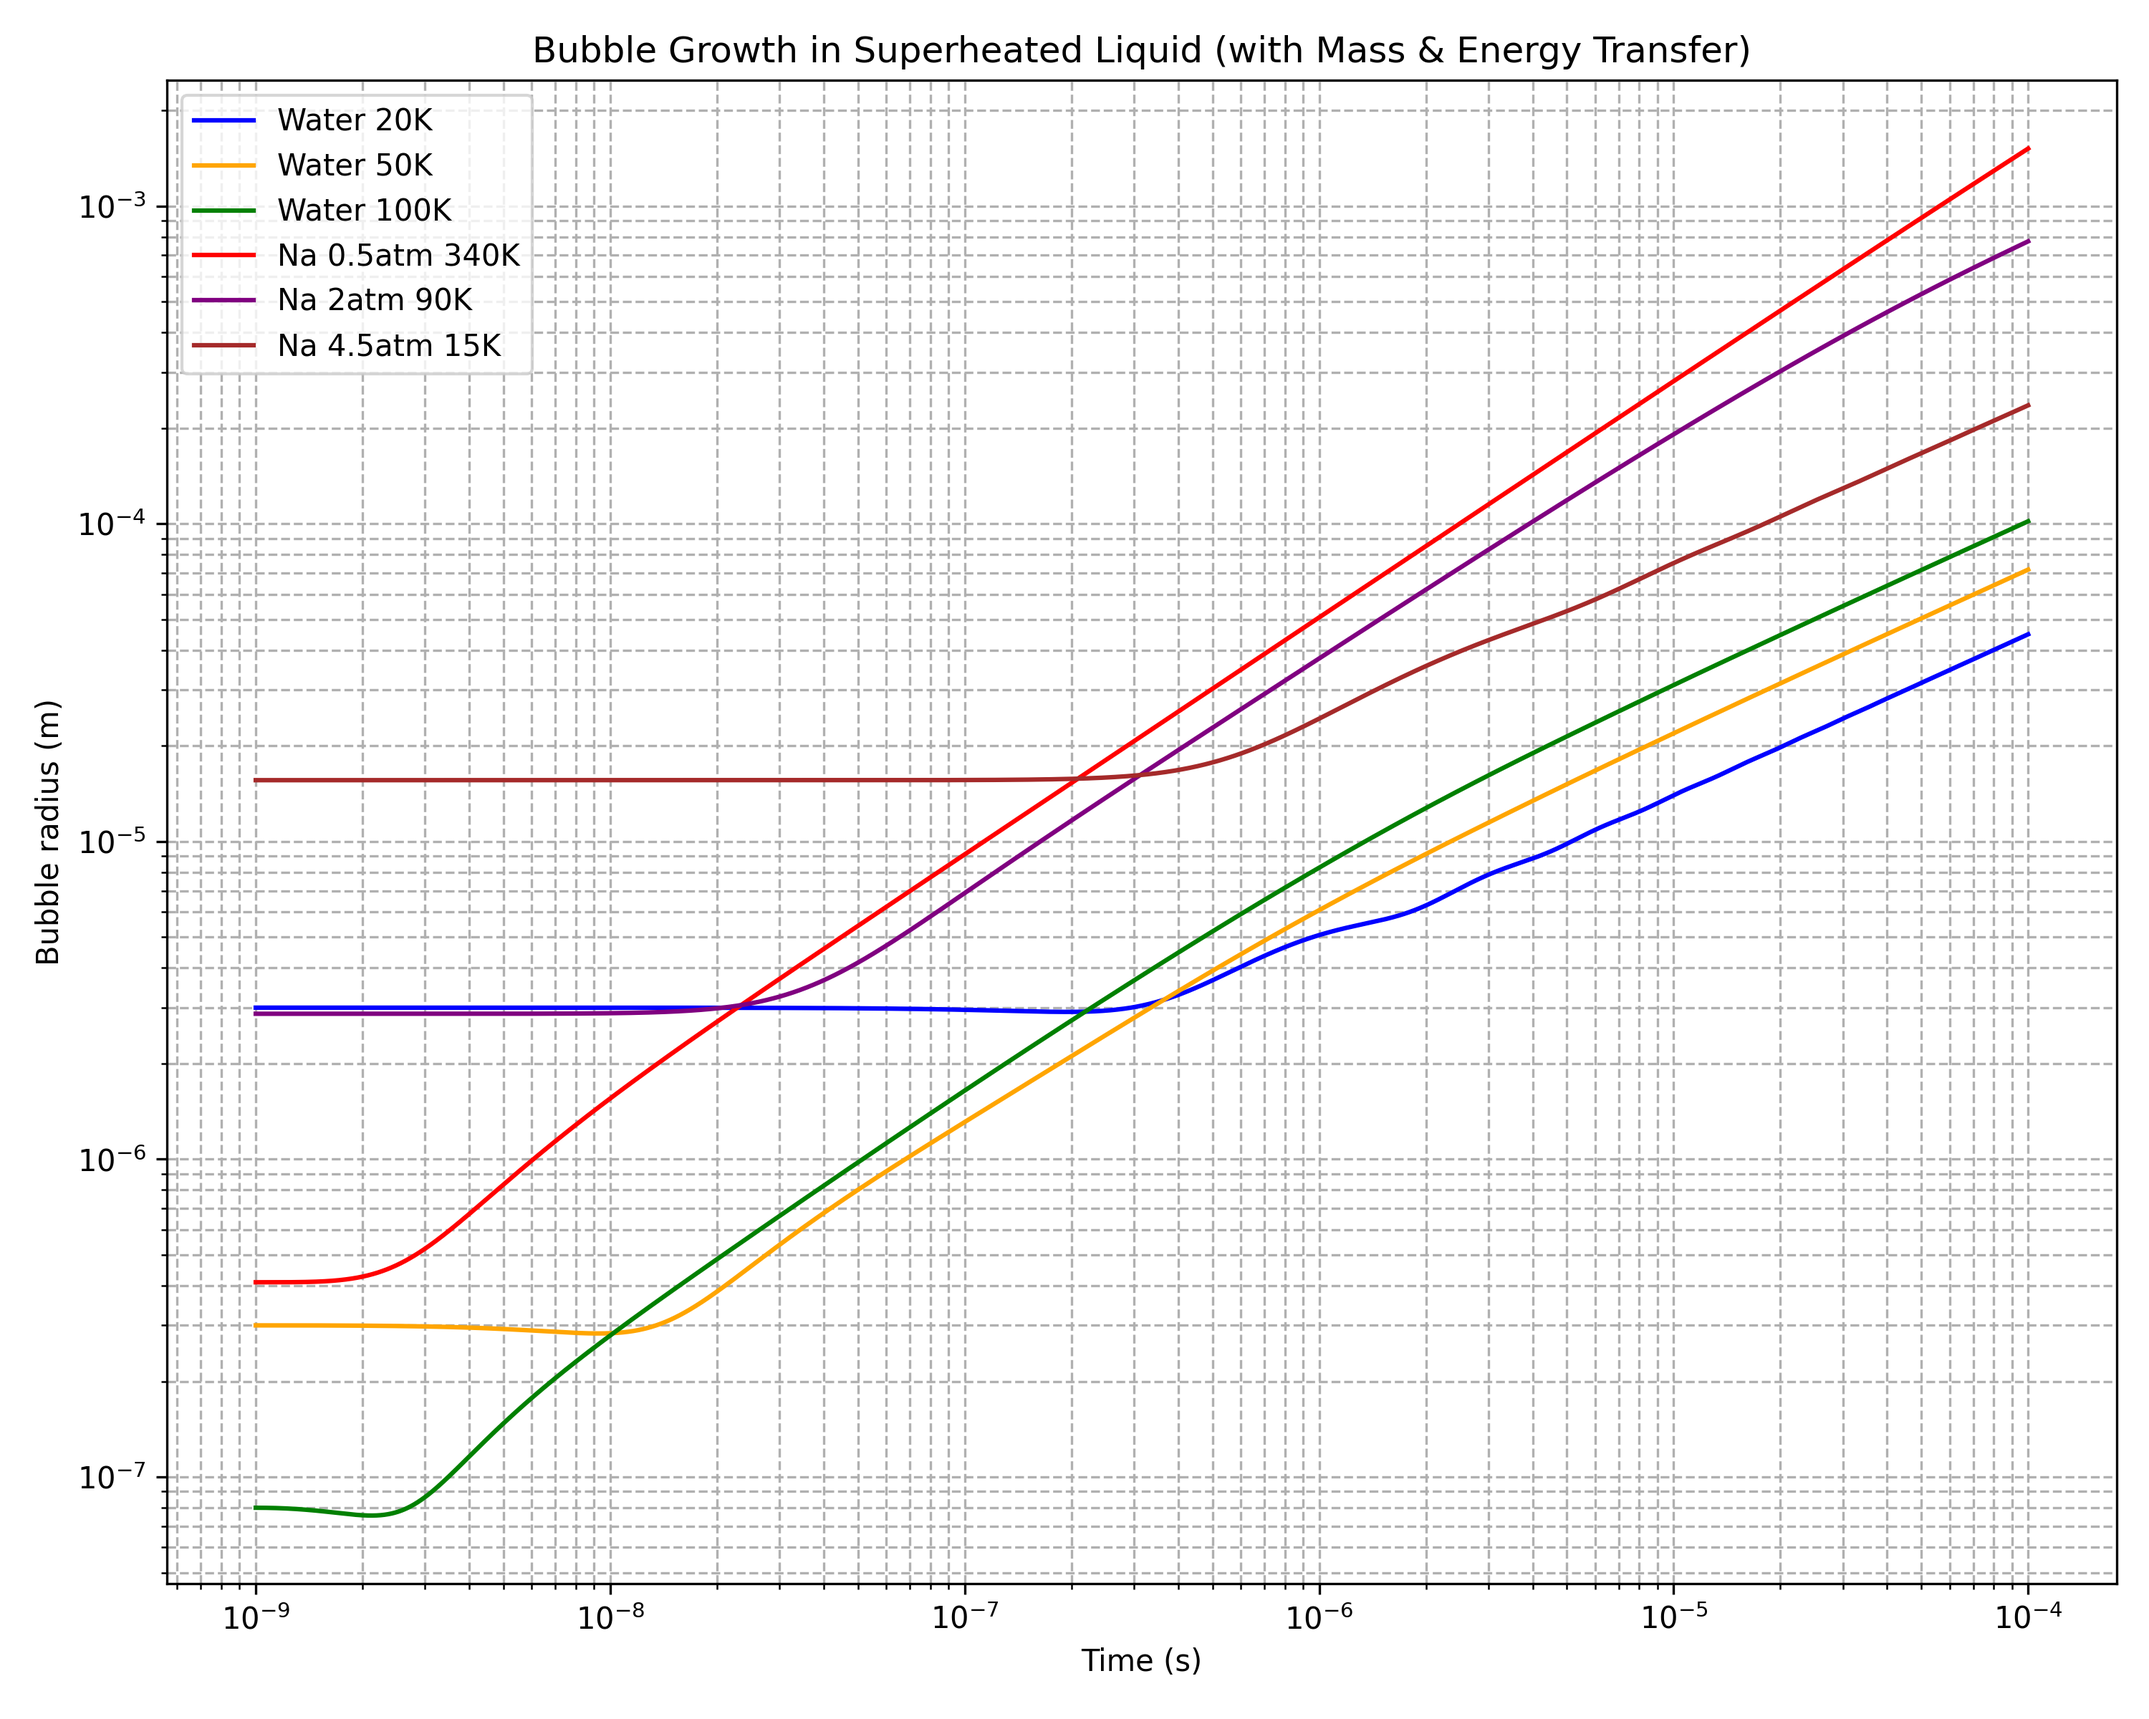
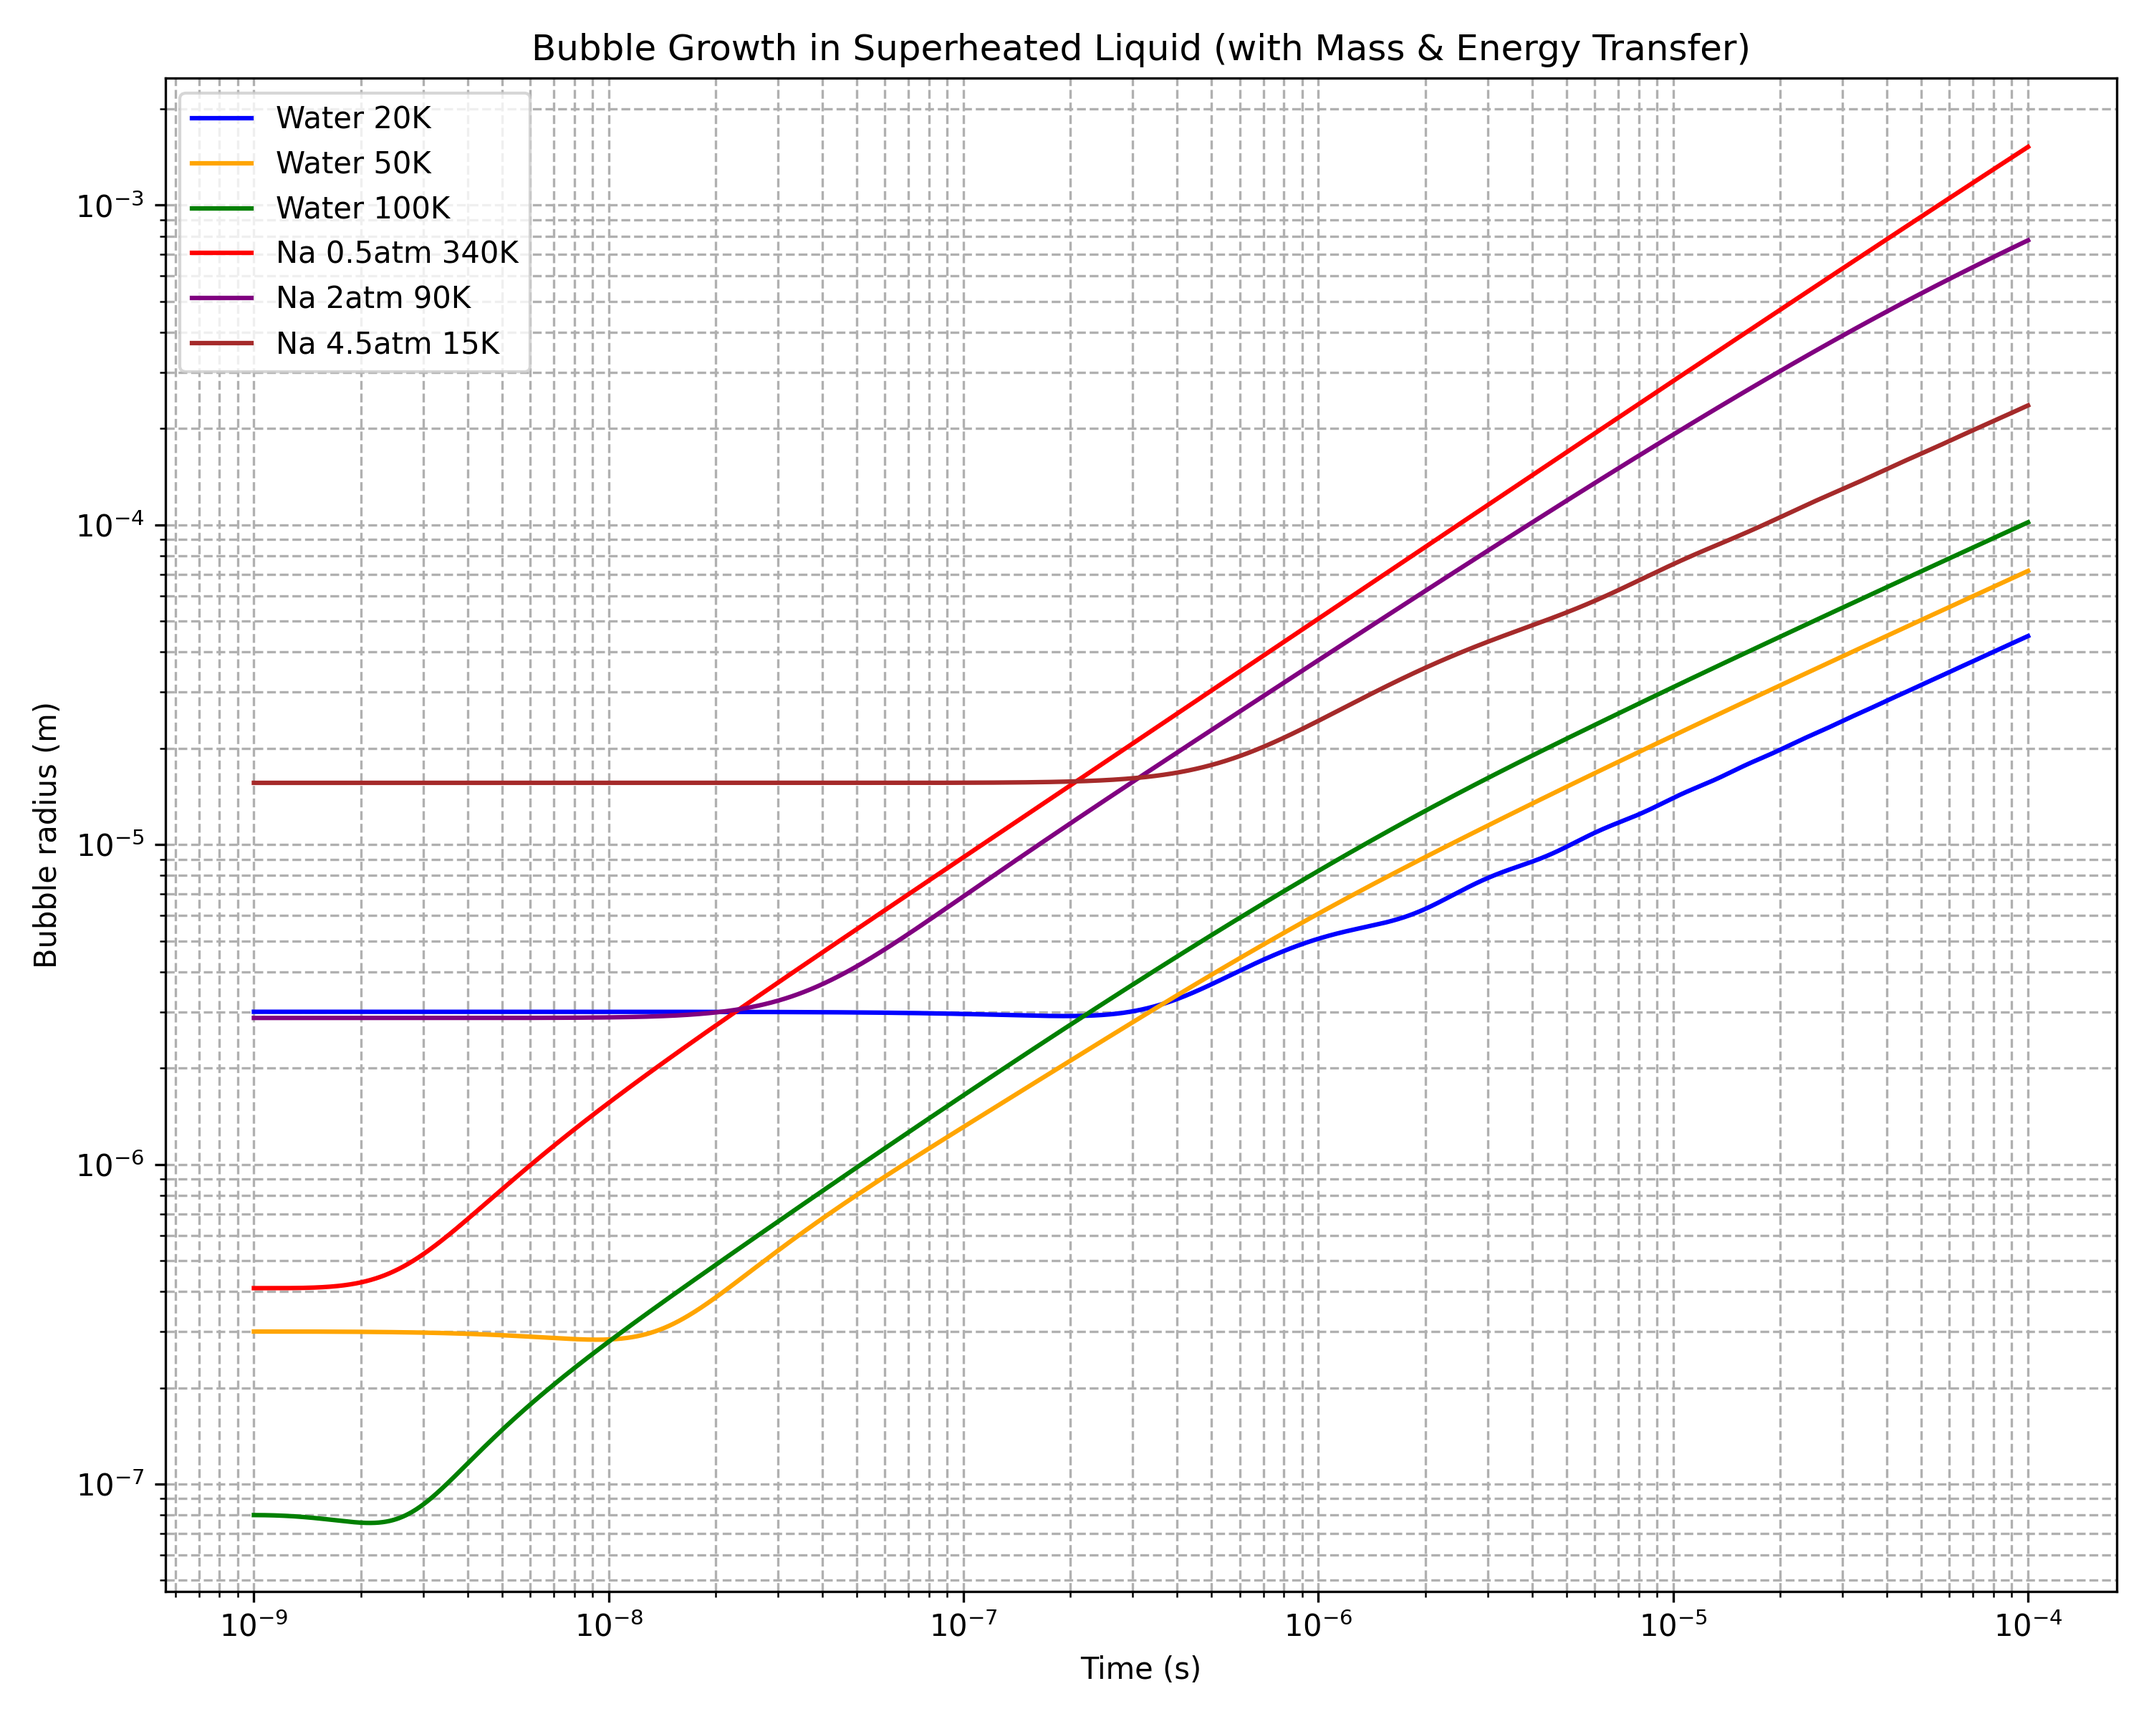
final commit

Changed region(s): [[0.0, 0.0, 0.992, 0.9688], [0.744, 0.2188, 0.775, 0.25]]

diff --git a/final.py b/final.py
@@ -45,7 +45,7 @@ fluids = {
                     'R_gas': 361.5,        # gas constant of sodium vapor (J/kg/K)
                     'sigma': 0.16,         # surface tension (N/m) at 0.5 atm
                     'eta_l': 0,            # dynamic viscosity (Pa.s)
-                    'T_sat': 1100,         # saturation temperature (K) at 0.5 atm
+                    'T_sat': 1107,         # saturation temperature (K) at 0.5 atm
                     'beta': 1000           # thermal enhancement factor (assumed)
                 }
             },
@@ -63,7 +63,7 @@ fluids = {
                     'R_gas': 361.5,        # gas constant of sodium vapor (J/kg/K)
                     'sigma': 0.158,        # surface tension (N/m) at 2 atm
                     'eta_l': 0,            # dynamic viscosity (Pa.s)
-                    'T_sat': 1250,         # saturation temperature (K) at 2 atm
+                    'T_sat': 1253,         # saturation temperature (K) at 2 atm
                     'beta': 1000           # thermal enhancement factor (assumed)
                 }
             },
@@ -81,7 +81,7 @@ fluids = {
                     'R_gas': 361.5,        # gas constant of sodium vapor (J/kg/K)
                     'sigma': 0.155,        # surface tension (N/m) at 4.5 atm
                     'eta_l': 0,            # dynamic viscosity (Pa.s)
-                    'T_sat': 1350,         # saturation temperature (K) at 4.5 atm
+                    'T_sat': 1352,         # saturation temperature (K) at 4.5 atm
                     'beta': 1000           # thermal enhancement factor (assumed)
                 }
             }
